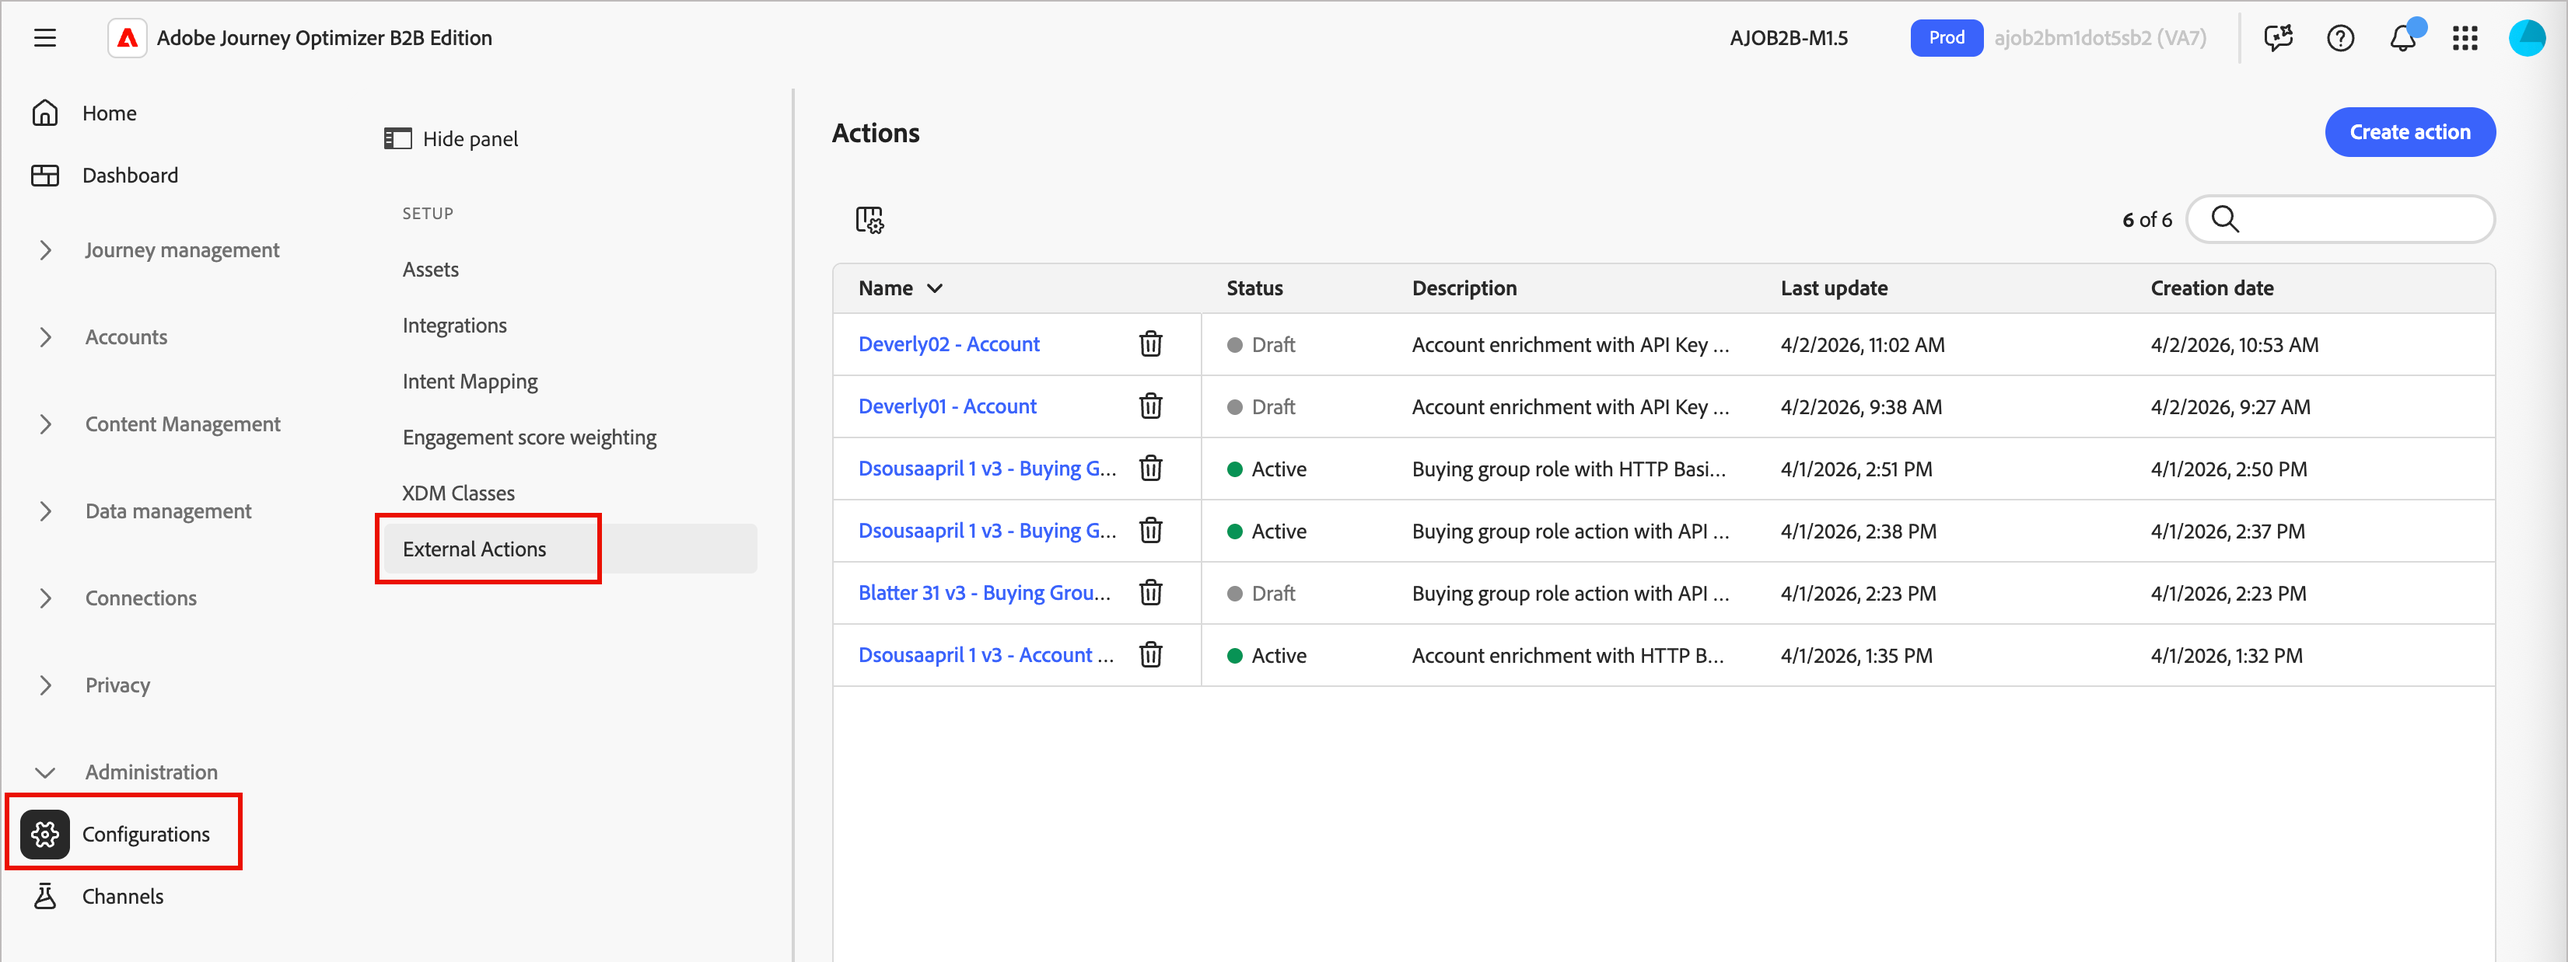
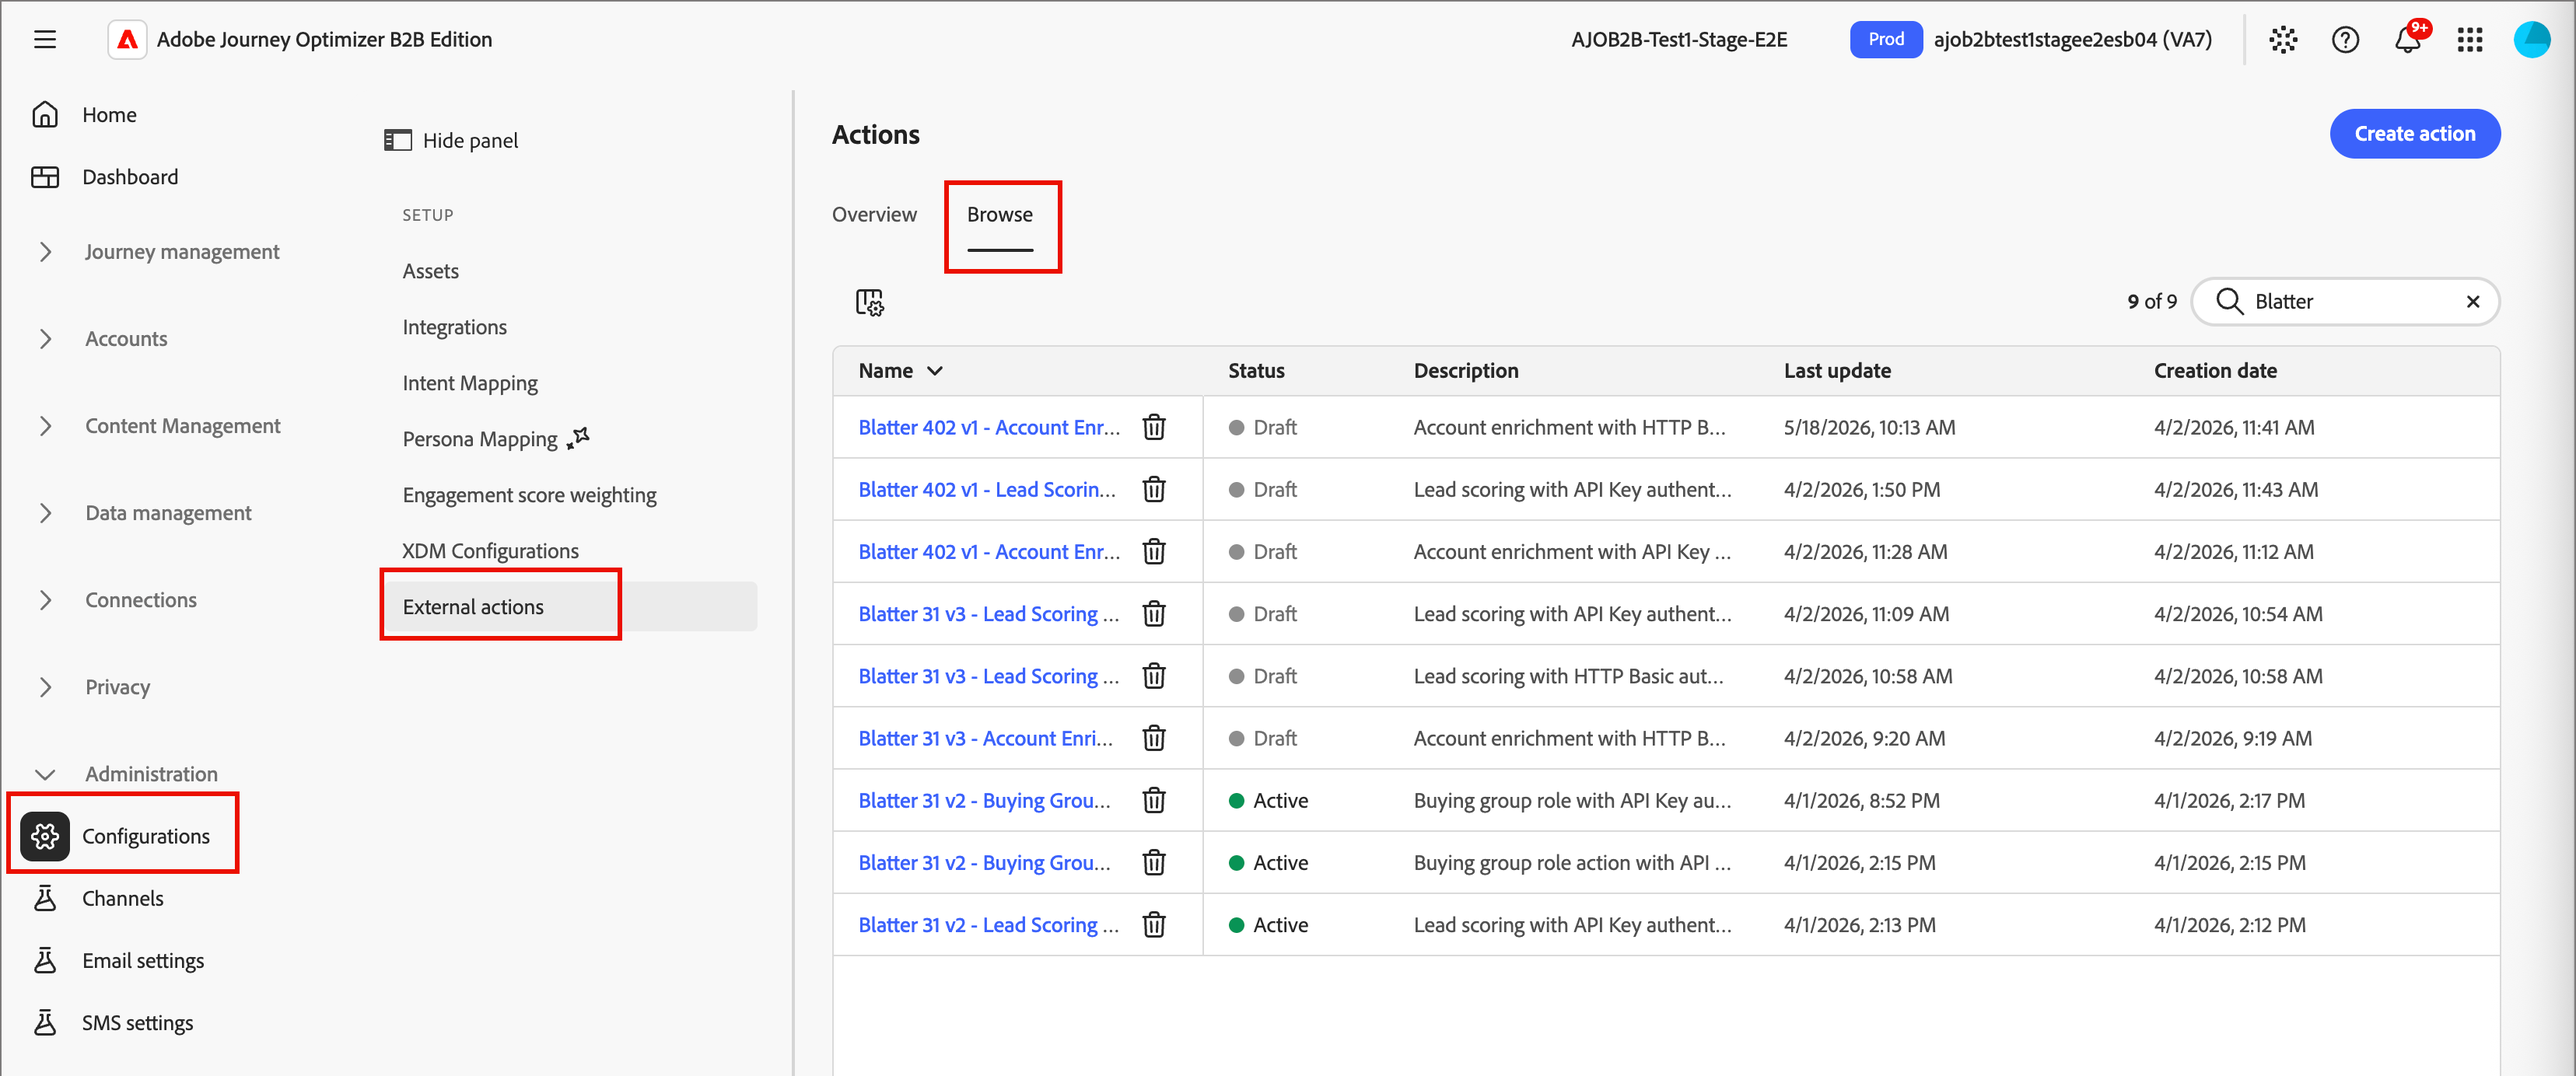
SPHR-37706, Add external action health dashboard documentation

diff --git a/help/user/admin/configure-external-actions.md b/help/user/admin/configure-external-actions.md
@@ -1,6 +1,6 @@
 ---
 title: External Actions Configuration
-description: Learn how developers, administrators, and marketers work together to implement, configure, and use external actions that connect Journey Optimizer B2B Edition with external services in journeys.
+description: Learn how developers, administrators, and marketers work together to implement, configure, and use external actions that connect Journey Optimizer B2B Edition with external services in journeys, and how administrators monitor action health.
 feature: Setup, Integrations
 role: Admin, Developer
 exl-id: 226fbf23-7df2-4fd7-b5a4-2057a417a261
@@ -41,7 +41,7 @@ Setting up external actions requires coordination across three roles in sequence
 | | Role | Task |
 | ---- | ---- | ---- |
 | 1 | Developer | [Implement and publish the external service](#implement-service) |
-| 2 | Administrator | [Configure the action in Journey Optimizer B2B Edition](#configure-action) |
+| 2 | Administrator | [Configure the action in Journey Optimizer B2B Edition](#configure-action) and [monitor external action health](#monitor-external-action-health) |
 | 3 | Marketer | [Add an external node to a journey](#add-journey-node) |
 
 ## Implement the external service {#implement-service}
@@ -67,6 +67,8 @@ An action must be configured and activated before marketers can use it in a jour
 1. Go to **[!UICONTROL Administration]** > **[!UICONTROL Configurations]**. 
 
 1. Click **[!UICONTROL External Actions]** on the intermediate panel.
+
+1. Select the **[!UICONTROL Browse]** tab.
 
    ![Access the External Actions configuration space](./assets/configuration-external-actions-list.png){width="800" zoomable="yes"}
 
@@ -180,6 +182,50 @@ This error appears below the URL field (not in the alert banner) and means there
 | `Failed to create external action. Please try again.` | A network error occurred or the server returned an unexpected response | Check your connection and try again. If it keeps happening, contact support |
 -->
 
+## Monitor external action health {#monitor-health}
+
+After marketers start using external actions in journeys, you can track how each action is performing from the _Overview_ tab of the external actions page. Use it to see how many requests each action receives, how many of those requests fail, and which actions have the highest error rates.
+
+To view the dashboard:
+
+1. Go to **[!UICONTROL Administration]** > **[!UICONTROL Configurations]**.
+
+1. Click **[!UICONTROL External actions]** on the intermediate panel.
+
+   The system displays the **[!UICONTROL Overview]** tab by default with external action data for the last seven days.
+
+1. Select the period to review from the date range menu, or enter a start and end date in the date field. The default range is the last 30 days.
+
+   ![External action health dashboard shows date range filters, total requests, errors, error rate, and action performance.](./assets/config-external-action-health.png){width="700" zoomable="yes"}
+
+   The metrics and the table update to show only activity from the selected period.
+
+### Metrics {#metrics}
+
+The _Overview_ section summarizes the performance of all external actions for the selected period.
+
+| Metric | Description |
+| ---- | ---- |
+| [!UICONTROL Total actions] | The number of external actions included in the report. |
+| [!UICONTROL Total requests] | The total number of requests made to external services across all actions. |
+| [!UICONTROL Total errors] | The total number of requests that resulted in an error. |
+| [!UICONTROL Error rate] | The percentage of requests that resulted in an error. |
+
+### Actions performance {#actions}
+
+The _Actions performance_ table lists each external action and its activity for the selected period.
+
+| Column | Description |
+| ---- | ---- |
+| [!UICONTROL Name] | The name of the external action. |
+| [!UICONTROL Request count] | The number of requests made to the action's external service. |
+| [!UICONTROL Error count] | The number of requests that resulted in an error. |
+| [!UICONTROL Error rate] | The percentage of requests that resulted in an error. |
+
+Use the table to compare actions and find the ones that need attention. For example, an action with a high error rate indicates a problem with the external service, its authentication credentials, or its configuration. Work with the developer who implemented the service to investigate the cause.
+
 ## Add an external node to a journey {#add-journey-node}
 
 After an action is activated, marketers can add an _[!UICONTROL External action]_ or _[!UICONTROL External split path]_ node to any account or person journey. For information about how to add and use these nodes in the journey canvas, see [External nodes](../journeys/external-nodes.md).
+
+![External action node - select external service](../journeys/assets/node-external-action-service-name.png){width="600" zoomable="yes"}

diff --git a/help/user/release-notes/release-notes.md b/help/user/release-notes/release-notes.md
@@ -40,7 +40,7 @@ Review the [product description](https://helpx.adobe.com/legal/product-descripti
 | Type | Item | Description |
 | ---- | ---- | ----------- |
 | Feature | People lists | Static and dynamic people lists are now available so that you can target profiles by your defined criteria, such as demographic attributes and experience event history. |
-| Feature | Service health dashboards | Track operational health of external actions by collecting success/error metrics and providing dashboards for administrators to monitor service performance. |
+| Feature | Service health dashboards | Administrators can now monitor the performance of external actions on a dashboard that shows request counts, error counts, and error rates. [Learn more](../admin/configure-external-actions.md#monitor-health) |
 | Enhancement | Member of Profile Audience filter | This filter is now available for person journey split path conditions, account journey person split path conditions, and people lists to include or exclude profiles based on their audience membership. |
 | Enhancement | Journey re-entry - Person journeys | Support for journey re-entry is now available for person journeys. |
 
